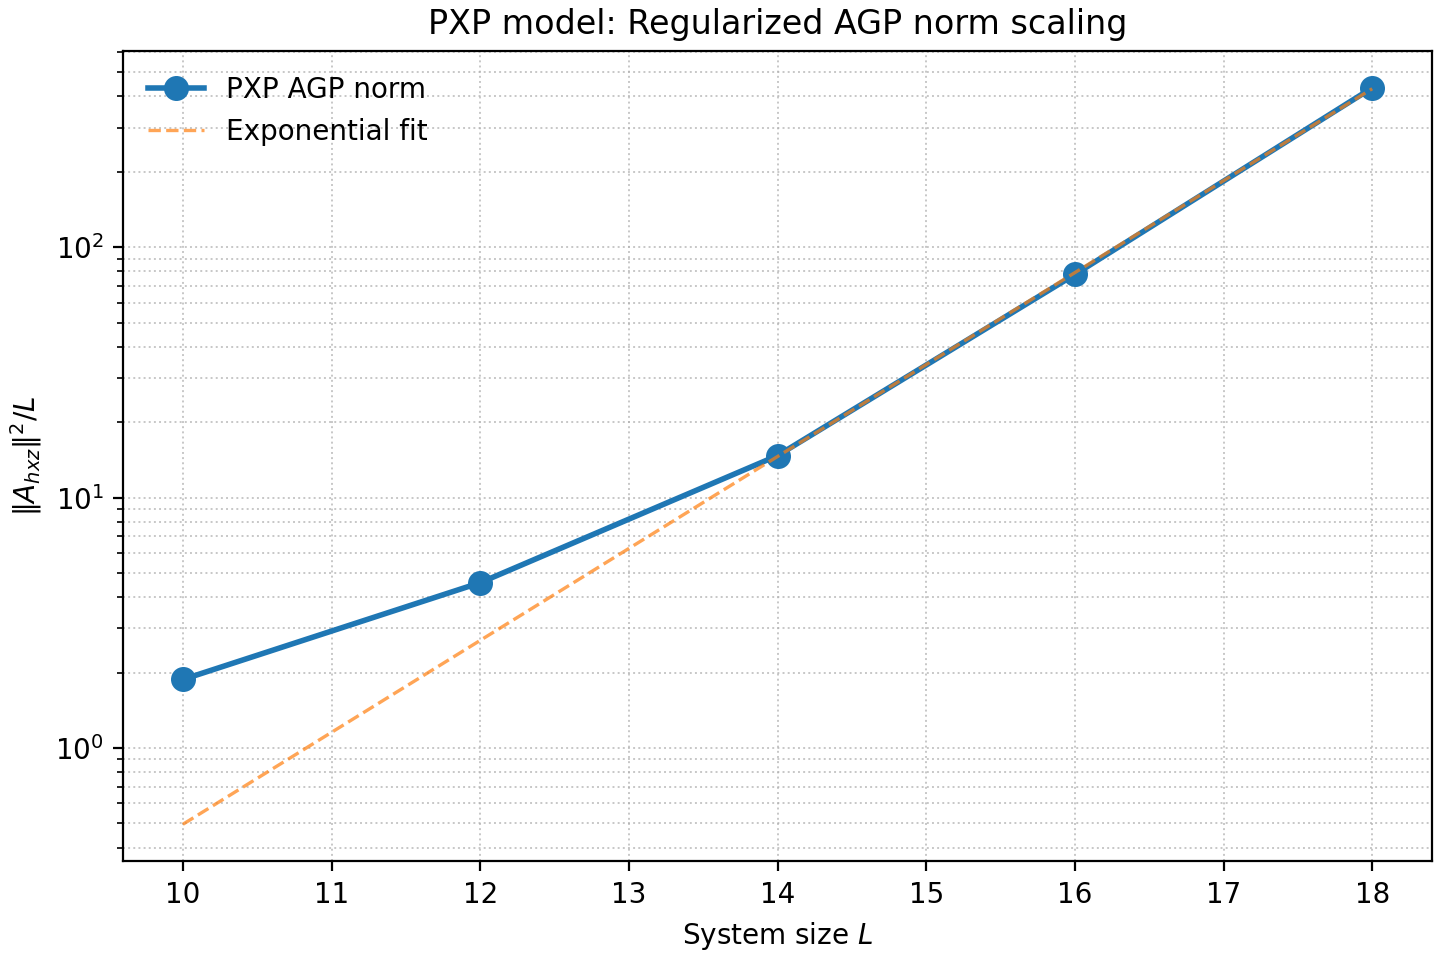
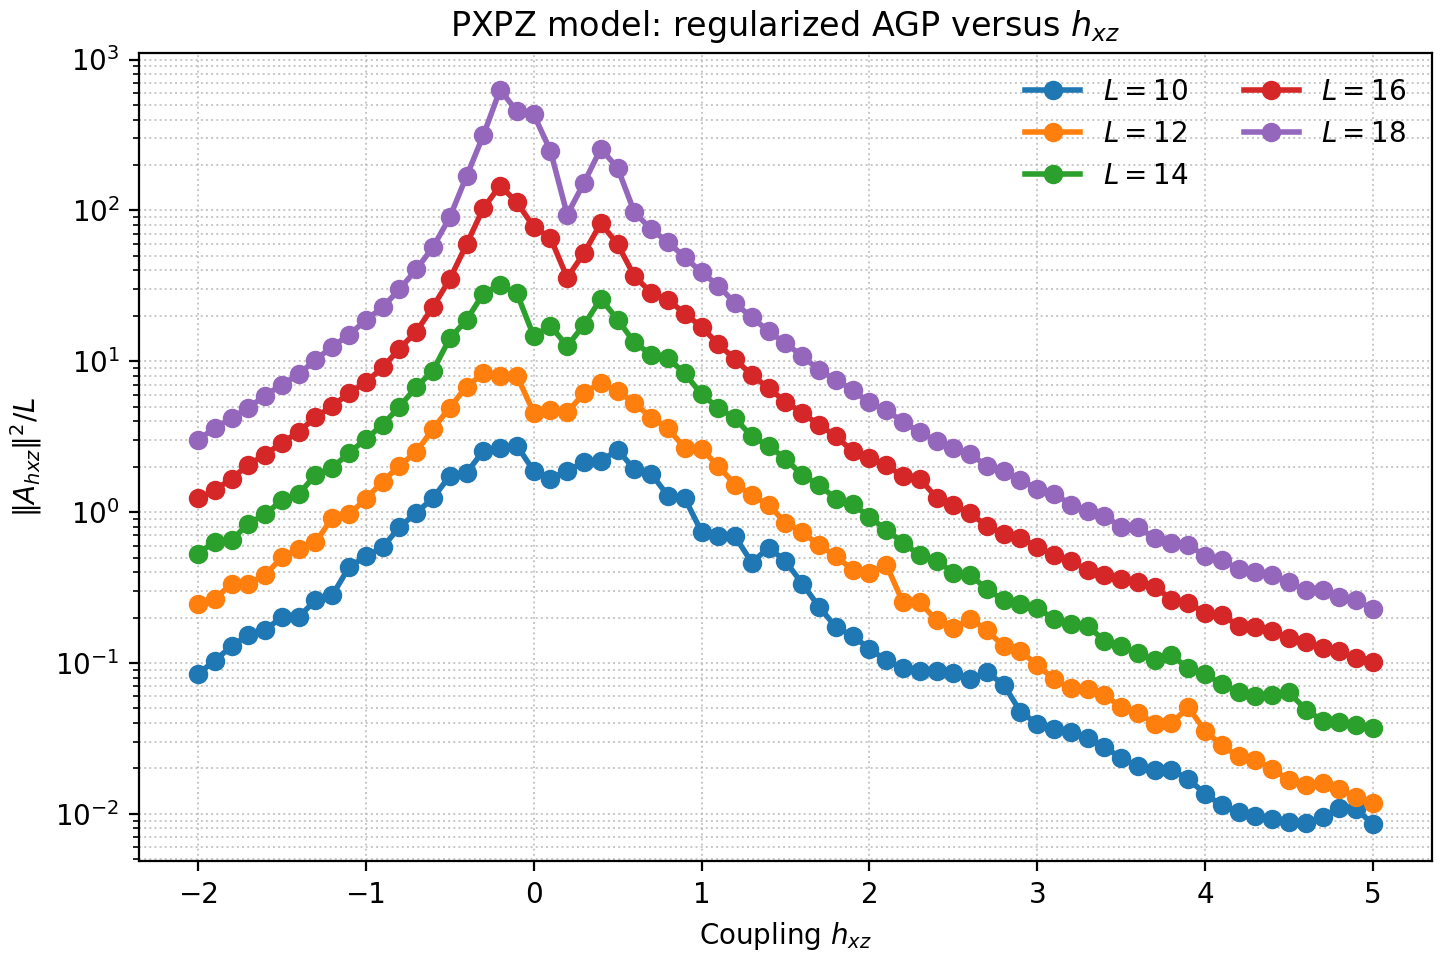
PXPZ sweeping with hxz

diff --git a/pxp_agp_scaling.py b/pxp_agp_scaling.py
@@ -1,8 +1,12 @@
-"""Compute and plot AGP norm for the PXP model (PXPZ with hxz=0).
+"""Compute and plot AGP norm for the PXPZ model.
 
-The AGP is computed with respect to the hxz coupling parameter, which couples
-remote Z and X operators. The script uses the PXP_infra infrastructure for
-diagonalization and scales to multiple system sizes.
+The script uses the PXP_infra infrastructure for exact diagonalization of the
+PXPZ Hamiltonian and computes the regularized AGP norm with respect to hxz.
+It can plot either AGP versus hxz for several fixed system sizes L, or the
+previous system-size scaling curve at fixed hxz.
+
+size sweep: python pxp_agp_scaling.py --mode size --l-values 10 12 --hxz-fixed 0.0
+hxz series: python pxp_agp_scaling.py --mode hxz --l-values 10 12 --hxz-min 0.0 --hxz-max 0.1 --hxz-count 3
 """
 
 from __future__ import annotations
@@ -19,8 +23,7 @@ from quspin.operators import hamiltonian
 # Add PXP_infra to path
 sys.path.insert(0, str(Path(__file__).parent / "PXP_infra"))
 
-from diag import GetBasis, GetHam, Diag
-from sym_kin import op_dict
+from diag import GetBasis, GetHam
 
 
 def regularized_agp_norm_pxp(
@@ -52,31 +55,27 @@ def regularized_agp_norm_pxp(
     return float(np.real_if_close(norm))
 
 
-def compute_pxp_agp(
+def compute_pxp_agp_series(
     l_values: Iterable[int],
-    hxz: float = 0.0,
+    hxz_values: Iterable[float],
     symmetry: tuple = (False, False),
     boundary: str = "OBC",
-) -> list[tuple[int, float, int]]:
-    """Compute AGP norm for PXP model at multiple system sizes.
+) -> dict[int, list[tuple[float, float]]]:
+    """Compute AGP norm versus hxz for several fixed system sizes.
 
     The AGP is computed with respect to the hxz parameter. Since the ZX and XZ
     terms in the Hamiltonian are proportional to hxz, dH/dhxz is simply the sum
     of those two operators with unit coefficient.
 
-    Returns list of (L, ||A_hxz||^2 / L, basis_dim) tuples.
+    Returns a mapping L -> list[(hxz, ||A_hxz||^2 / L)].
     """
 
-    results = []
+    results: dict[int, list[tuple[float, float]]] = {l: [] for l in l_values}
 
     for l in l_values:
-        gen_dict = dict(N=l, hxz=hxz, sym=symmetry, model="PXPZ", bound=boundary)
+        gen_dict = dict(N=l, hxz=0.0, sym=symmetry, model="PXPZ", bound=boundary)
         basis = GetBasis(gen_dict)
         basis_dim = basis.Ns
-
-        # Construct base Hamiltonian at hxz value
-        h_base = GetHam(gen_dict, basis)
-        h_base_dense = np.asarray(h_base.toarray(), dtype=np.float64)
 
         # Construct dH/dhxz operator (the ZX and XZ terms with coefficient 1.0)
         isPBC = 1 if boundary == "PBC" else 0
@@ -101,27 +100,101 @@ def compute_pxp_agp(
         # Compute cutoff as in the paper: mu = L / D
         mu = l / basis_dim
 
-        # Compute regularized AGP norm
-        norm_sq = regularized_agp_norm_pxp(h_base_dense, dh_dhxz_dense, mu)
-        norm_sq_per_l = norm_sq / l
+        for hxz in hxz_values:
+            gen_dict["hxz"] = hxz
+            h_base = GetHam(gen_dict, basis)
+            h_base_dense = np.asarray(h_base.toarray(), dtype=np.float64)
 
-        results.append((l, norm_sq_per_l, basis_dim))
-        print(f"L={l:2d}, D={basis_dim:6d}, ||A_hxz||^2/L={norm_sq_per_l:.6e}")
+            # Compute regularized AGP norm at this hxz value.
+            norm_sq = regularized_agp_norm_pxp(h_base_dense, dh_dhxz_dense, mu)
+            norm_sq_per_l = norm_sq / l
+
+            results[l].append((hxz, norm_sq_per_l))
+            print(f"L={l:2d}, hxz={hxz: .5f}, D={basis_dim:6d}, ||A_hxz||^2/L={norm_sq_per_l:.6e}")
 
     return results
 
 
-def plot_pxp_agp(results: list[tuple[int, float, int]], output_path: Path) -> None:
-    """Plot AGP scaling for PXP model."""
+def compute_pxp_agp_size_series(
+    l_values: Iterable[int],
+    hxz: float = 0.0,
+    symmetry: tuple = (False, False),
+    boundary: str = "OBC",
+) -> list[tuple[int, float, int]]:
+    """Compute AGP norm versus system size at a fixed hxz value.
+
+    Returns list of (L, ||A_hxz||^2 / L, basis_dim) tuples.
+    """
+
+    results: list[tuple[int, float, int]] = []
+
+    for l in l_values:
+        gen_dict = dict(N=l, hxz=hxz, sym=symmetry, model="PXPZ", bound=boundary)
+        basis = GetBasis(gen_dict)
+        basis_dim = basis.Ns
+
+        isPBC = 1 if boundary == "PBC" else 0
+        if isPBC:
+            zx_list = [[1.0, i, (i + 2) % l] for i in range(l)]
+            xz_list = [[1.0, (i - 2) % l, i] for i in range(l)]
+        else:
+            zx_list = [[1.0, i - 2, i] for i in range(2, l)]
+            xz_list = [[1.0, i, i + 2] for i in range(l - 2)]
+
+        dh_dhxz = hamiltonian(
+            [["zx", zx_list], ["xz", xz_list]],
+            [],
+            basis=basis,
+            dtype=np.float64,
+            check_symm=False,
+            check_pcon=False,
+            check_herm=False,
+        )
+        dh_dhxz_dense = np.asarray(dh_dhxz.toarray(), dtype=np.float64)
+
+        h_base = GetHam(gen_dict, basis)
+        h_base_dense = np.asarray(h_base.toarray(), dtype=np.float64)
+
+        mu = l / basis_dim
+        norm_sq = regularized_agp_norm_pxp(h_base_dense, dh_dhxz_dense, mu)
+        norm_sq_per_l = norm_sq / l
+
+        results.append((l, norm_sq_per_l, basis_dim))
+        print(f"L={l:2d}, hxz={hxz: .5f}, D={basis_dim:6d}, ||A_hxz||^2/L={norm_sq_per_l:.6e}")
+
+    return results
+
+
+def plot_pxp_agp_series(results: dict[int, list[tuple[float, float]]], output_path: Path) -> None:
+    """Plot AGP versus hxz for several fixed system sizes."""
+
+    fig, ax = plt.subplots(figsize=(7.2, 4.8), constrained_layout=True)
+
+    for l, points in results.items():
+        hxz_values = np.array([p[0] for p in points], dtype=float)
+        agp_values = np.array([p[1] for p in points], dtype=float)
+        ax.semilogy(hxz_values, agp_values, marker="o", linewidth=2.0, markersize=6, label=fr"$L={l}$")
+
+    ax.set_xlabel(r"Coupling $h_{xz}$")
+    ax.set_ylabel(r"$\|A_{hxz}\|^2 / L$")
+    ax.set_title("PXPZ model: regularized AGP versus $h_{xz}$")
+    ax.grid(True, which="both", linestyle=":", linewidth=0.7, alpha=0.7)
+    ax.legend(frameon=False, ncol=2)
+
+    fig.savefig(output_path, dpi=200)
+    print(f"Saved plot to {output_path}")
+
+
+def plot_pxp_agp_size_series(results: list[tuple[int, float, int]], output_path: Path) -> None:
+    """Plot AGP versus system size at fixed hxz."""
 
     fig, ax = plt.subplots(figsize=(7.2, 4.8), constrained_layout=True)
 
     lengths = np.array([r[0] for r in results], dtype=float)
     values = np.array([r[1] for r in results], dtype=float)
 
-    ax.semilogy(lengths, values, marker="o", linewidth=2.0, markersize=8, label="PXP AGP norm")
+    ax.semilogy(lengths, values, marker="o", linewidth=2.0, markersize=8, label=r"$\|A_{h_{xz}}\|^2/L$")
 
-    # Add an exponential fit if we have enough points
     if len(results) >= 3:
         tail_lengths = lengths[-3:]
         tail_log_values = np.log(values[-3:])
@@ -131,8 +204,8 @@ def plot_pxp_agp(results: list[tuple[int, float, int]], output_path: Path) -> No
         print(f"Exponential slope (last 3 points): {slope:.4f}")
 
     ax.set_xlabel(r"System size $L$")
-    ax.set_ylabel(r"$\|A_{hxz}\|^2 / L$")
-    ax.set_title("PXP model: Regularized AGP norm scaling")
+    ax.set_ylabel(r"$\|A_{h_{xz}}\|^2 / L$")
+    ax.set_title("PXPZ model: regularized AGP scaling with system size")
     ax.grid(True, which="both", linestyle=":", linewidth=0.7, alpha=0.7)
     ax.legend(frameon=False)
 
@@ -143,22 +216,53 @@ def plot_pxp_agp(results: list[tuple[int, float, int]], output_path: Path) -> No
 def parse_args() -> argparse.Namespace:
     parser = argparse.ArgumentParser(description=__doc__)
     parser.add_argument(
+        "--mode",
+        choices=["hxz", "size"],
+        default="hxz",
+        help="Plot AGP versus hxz at fixed L values or AGP versus L at fixed hxz.",
+    )
+    parser.add_argument(
+        "--l-values",
+        type=int,
+        nargs="+",
+        default=[10, 12, 14, 16],
+        help="System sizes to use.",
+    )
+    parser.add_argument(
+        "--hxz-fixed",
+        type=float,
+        default=0.0,
+        help="Fixed hxz value for size-scaling mode.",
+    )
+    parser.add_argument(
+        "--hxz-min",
+        type=float,
+        default=0.0,
+        help="Minimum hxz value in the sweep.",
+    )
+    parser.add_argument(
+        "--hxz-max",
+        type=float,
+        default=0.25,
+        help="Maximum hxz value in the sweep.",
+    )
+    parser.add_argument(
+        "--hxz-count",
+        type=int,
+        default=9,
+        help="Number of hxz points in the sweep.",
+    )
+    parser.add_argument(
         "--l-min",
         type=int,
-        default=10,
-        help="Smallest system size to include.",
+        default=None,
+        help=argparse.SUPPRESS,
     )
     parser.add_argument(
         "--l-max",
         type=int,
-        default=18,
-        help="Largest system size to include.",
-    )
-    parser.add_argument(
-        "--hxz",
-        type=float,
-        default=0.0,
-        help="Base hxz coupling for AGP computation (usually 0 at integrable point).",
+        default=None,
+        help=argparse.SUPPRESS,
     )
     parser.add_argument(
         "--boundary",
@@ -178,19 +282,38 @@ def parse_args() -> argparse.Namespace:
 def main() -> None:
     args = parse_args()
 
-    l_values = list(range(args.l_min, args.l_max + 1, 2))
+    if args.l_min is not None or args.l_max is not None:
+        if args.l_min is None or args.l_max is None:
+            raise ValueError("Specify both --l-min and --l-max, or use --l-values.")
+        l_values = list(range(args.l_min, args.l_max + 1, 2))
+    else:
+        l_values = list(args.l_values)
     if not l_values:
         raise ValueError("No system sizes selected.")
 
-    print(f"Computing PXP AGP norm for L = {l_values}")
-    results = compute_pxp_agp(
-        l_values,
-        hxz=args.hxz,
-        symmetry=(False, False),
-        boundary=args.boundary,
-    )
+    if args.mode == "hxz":
+        hxz_values = np.linspace(args.hxz_min, args.hxz_max, args.hxz_count)
+        if len(hxz_values) == 0:
+            raise ValueError("No hxz values selected.")
 
-    plot_pxp_agp(results, args.output)
+        print(f"Computing PXP AGP norm for L = {l_values}")
+        print(f"Sweeping hxz over {hxz_values[0]:.5f} to {hxz_values[-1]:.5f} in {len(hxz_values)} steps")
+        results = compute_pxp_agp_series(
+            l_values,
+            symmetry=(False, False),
+            boundary=args.boundary,
+            hxz_values=hxz_values,
+        )
+        plot_pxp_agp_series(results, args.output)
+    else:
+        print(f"Computing PXP AGP norm versus system size for hxz={args.hxz_fixed:.5f} and L = {l_values}")
+        results = compute_pxp_agp_size_series(
+            l_values,
+            hxz=args.hxz_fixed,
+            symmetry=(False, False),
+            boundary=args.boundary,
+        )
+        plot_pxp_agp_size_series(results, args.output)
 
 
 if __name__ == "__main__":